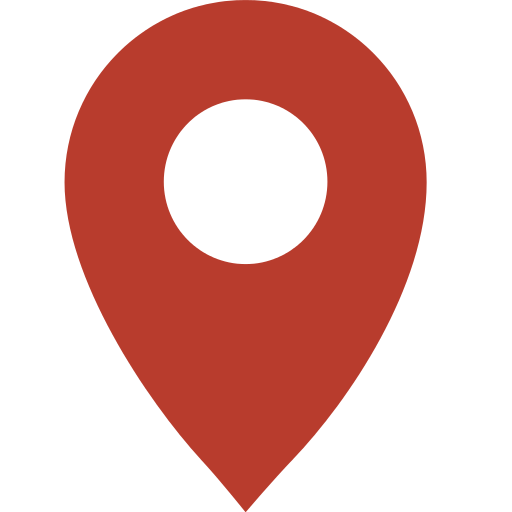
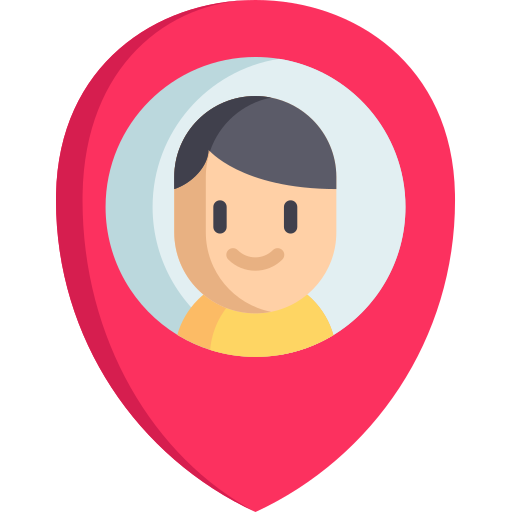
gpsIcon, gpsButton 이미지 변경, css 수정

diff --git a/src/main/resources/static/css/map.css b/src/main/resources/static/css/map.css
@@ -12,13 +12,19 @@
 }
 
 .gpsButton {
+    border:0;
+    outline:0;
+    border-radius:50%;
+    box-shadow: rgba(0, 0, 0, 0.25) 0px 54px 55px, rgba(0, 0, 0, 0.12) 0px -12px 30px, rgba(0, 0, 0, 0.12) 0px 4px 6px, rgba(0, 0, 0, 0.17) 0px 12px 13px, rgba(0, 0, 0, 0.09) 0px -3px 5px;
+    background-color: gray;
     position:absolute;
     z-index:2;
-    right:2%;
-    top:43.5%;
+    right:7px;
+    top:67%;
     width:40px;
     height:40px;
 }
+
 
 #build_marker {
     height:30px;
@@ -91,10 +97,11 @@
 }
 
 #category button {
+    border:0;
+    outline:0;
     float:left;
     list-style: none;
     width:50px;
-    border-right:1px solid #acacac;
     padding:6px 0;
     text-align: center;
     cursor: pointer;
@@ -106,7 +113,6 @@
 
 #category button:hover {
     background: #ffe6e6;
-    border-left:1px solid
 }
 
 #category button:last-child{

diff --git a/src/main/resources/templates/mainMap/map_wrap.html b/src/main/resources/templates/mainMap/map_wrap.html
@@ -25,7 +25,7 @@
 <!--      <button type="button" id="etc"  class="etc" data-order="7" onclick="etcBtn()" th:valeu="기타"><img src="./images/etc.png" height ="40" width="40" />기타</button>-->
     </div>
 
-    <button class="gpsButton" id="gpsButtonConnect" onclick="gpsButton()" ><img style="width:40px; height:40px;" src="./images/gpsButton.svg" alt="gps"></button>
+    <button class="gpsButton" id="gpsButtonConnect" onclick="gpsButton()" ><img style="width:40px; height:40px;" src="./images/gpsButton.png" alt="gps"></button>
       <img id="pin" th:src="@{/images/pin.png}"  />
     <div th:replace ="mainMap/present_location :: address_view('address_view')"></div>
 </div>
